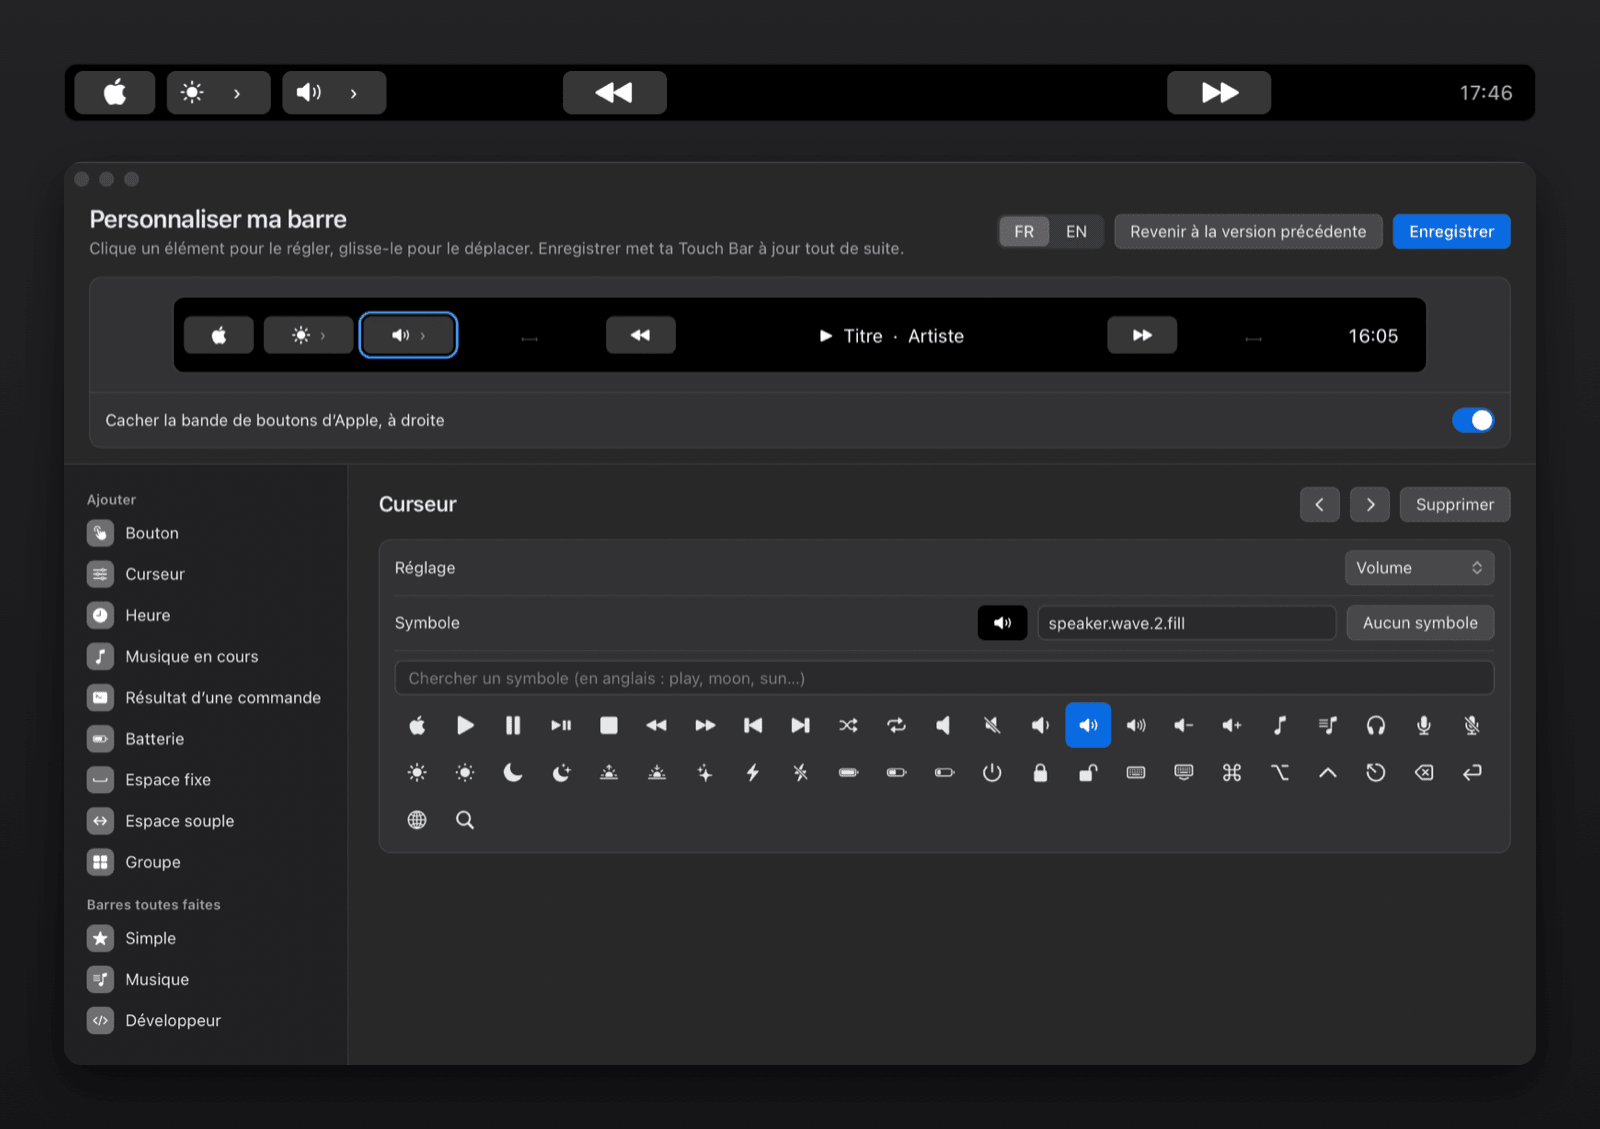
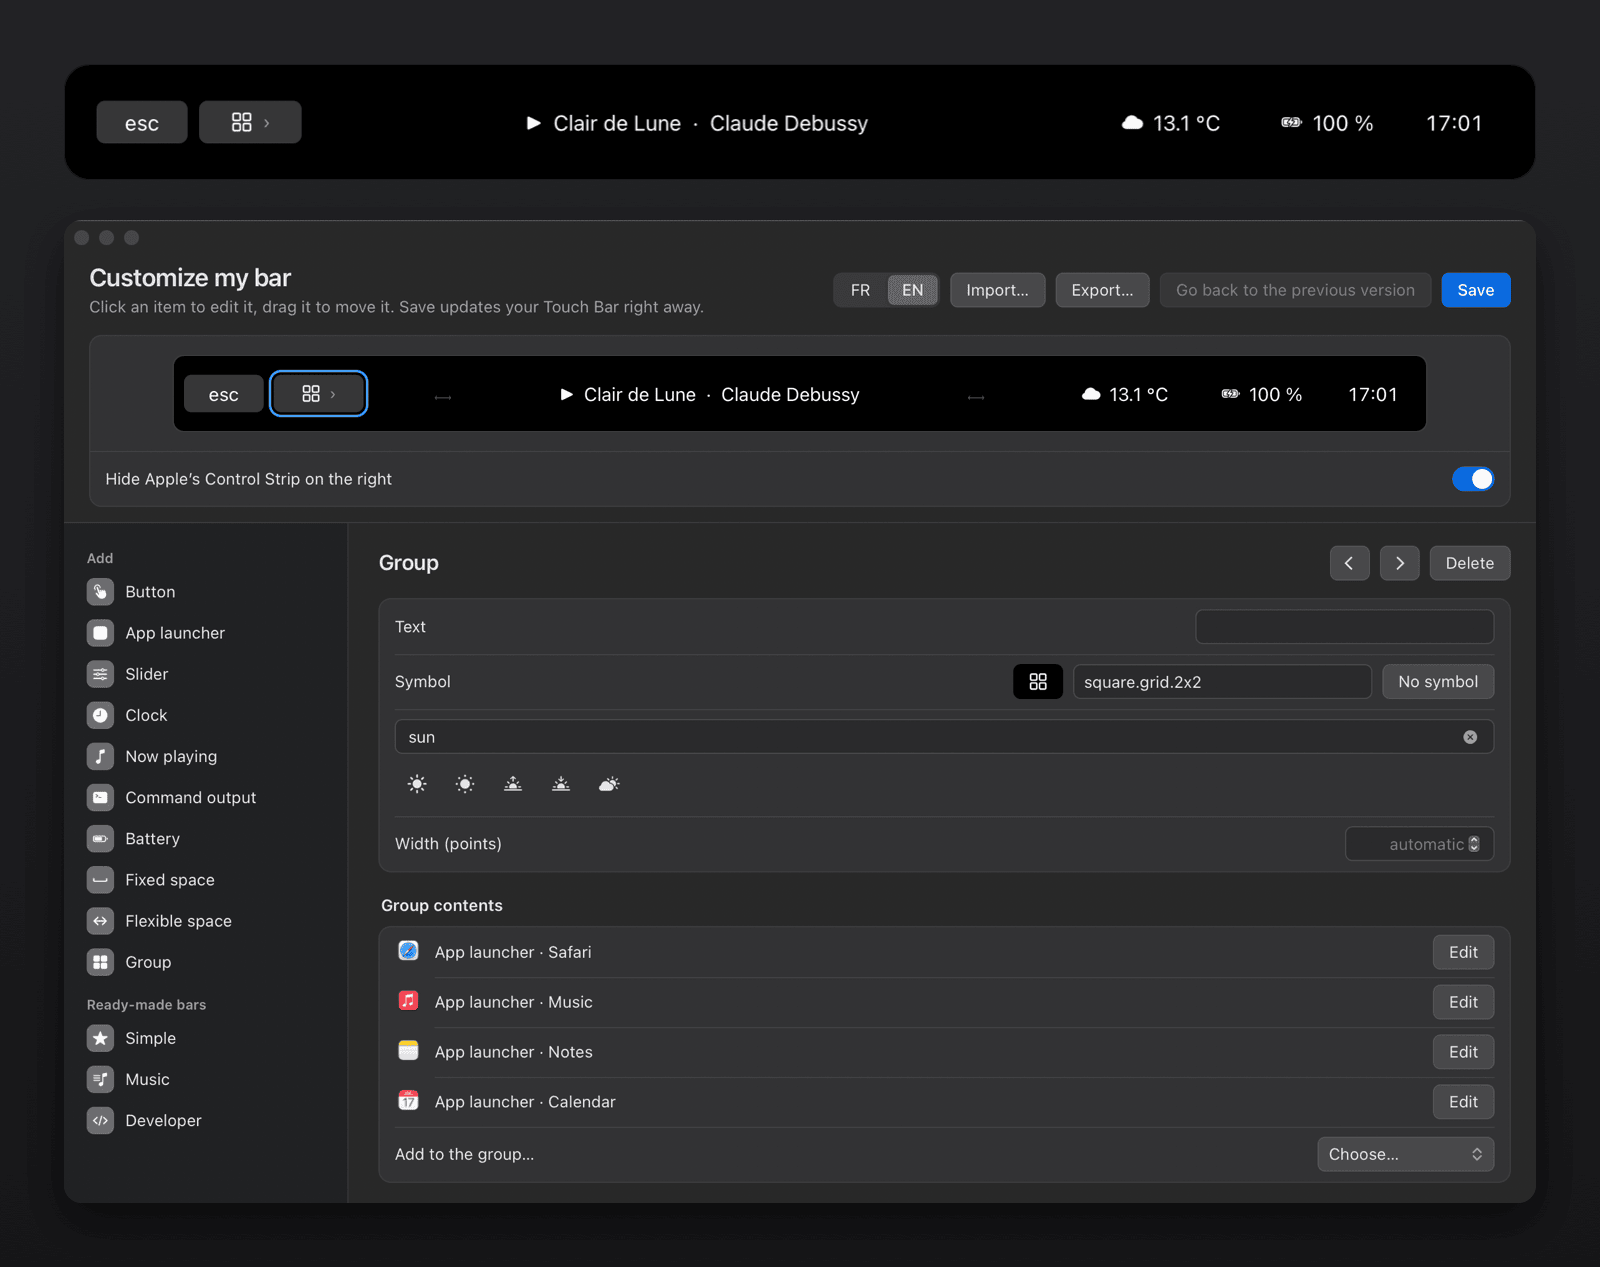
docs: visuel d'accroche et aperçu social en anglais, rendus depuis la barre vitrine
Claude-Session: https://claude.ai/code/session_01F5zcax6QngTrp6o3SE8jCv

diff --git a/docs/ARCHITECTURE.md b/docs/ARCHITECTURE.md
@@ -69,6 +69,8 @@ Tout ce qui touche AppKit tourne sur le fil principal. Le travail lent (une comm
 | `exemples/simple.toml`, `exemples/developpeur.toml` | Les deux autres préréglages de l'éditeur. |
 | `exemples/par-application.toml` | Barres par application commentées (testé par `aller_retour_toml`). |
 | `exemples/lanceur.toml` | Lanceurs, tiroir d'apps (un `groupe` de lanceurs) et raccourcis système (testé par `aller_retour_toml`). |
+| `exemples/vitrine.toml` | La barre des visuels du README (testé par `aller_retour_toml`). |
+| `scripts/hero.sh` | `docs/hero.png`, `docs/social-preview.png` et `docs/editeur-erreur-sombre-en.png`, rendus par l'éditeur piloté (`scripts/pilote-editeur.sh`) sur `vitrine.toml`. |
 | `scripts/empaqueter.sh` | `Tactile.app` universelle signée ad hoc + `Tactile.zip`. |
 
 ## Recettes

diff --git a/README.md b/README.md
@@ -499,7 +499,7 @@ Errors are written to `~/Library/Logs/Tactile.log` (menu → **Voir le journal**
 | Esc or a shortcut does nothing | Allow Tactile in **System Settings → Privacy & Security → Accessibility**. |
 | `{ app = "…" }` opens nothing | Use the `.app` folder's name ([finding an app's name](#finding-an-apps-name)); the log says "Unable to find application". |
 
-![A misspelled symbol in the editor window: saving is refused and the closest symbol is suggested](docs/editeur-erreur-sombre.png)
+![A misspelled symbol in the editor window: the preview flags it and suggests the closest symbol](docs/editeur-erreur-sombre-en.png)
 
 ### Why media-control
 
